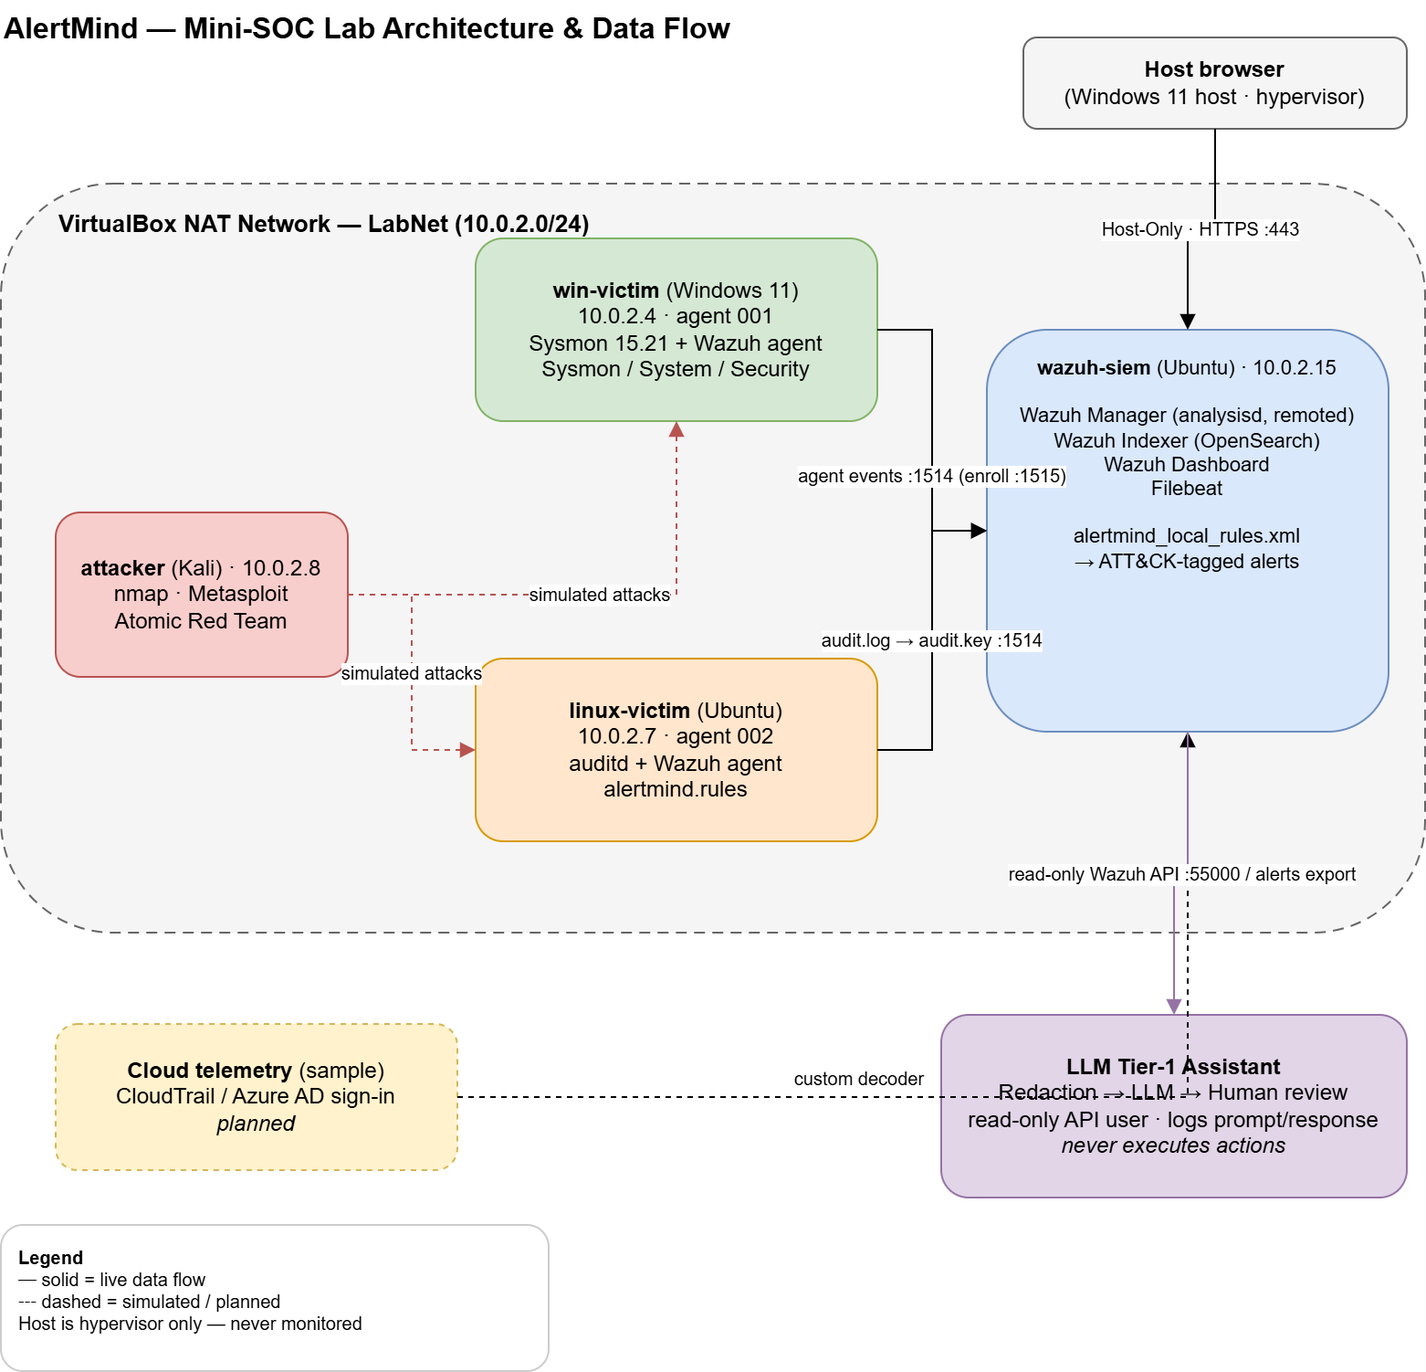
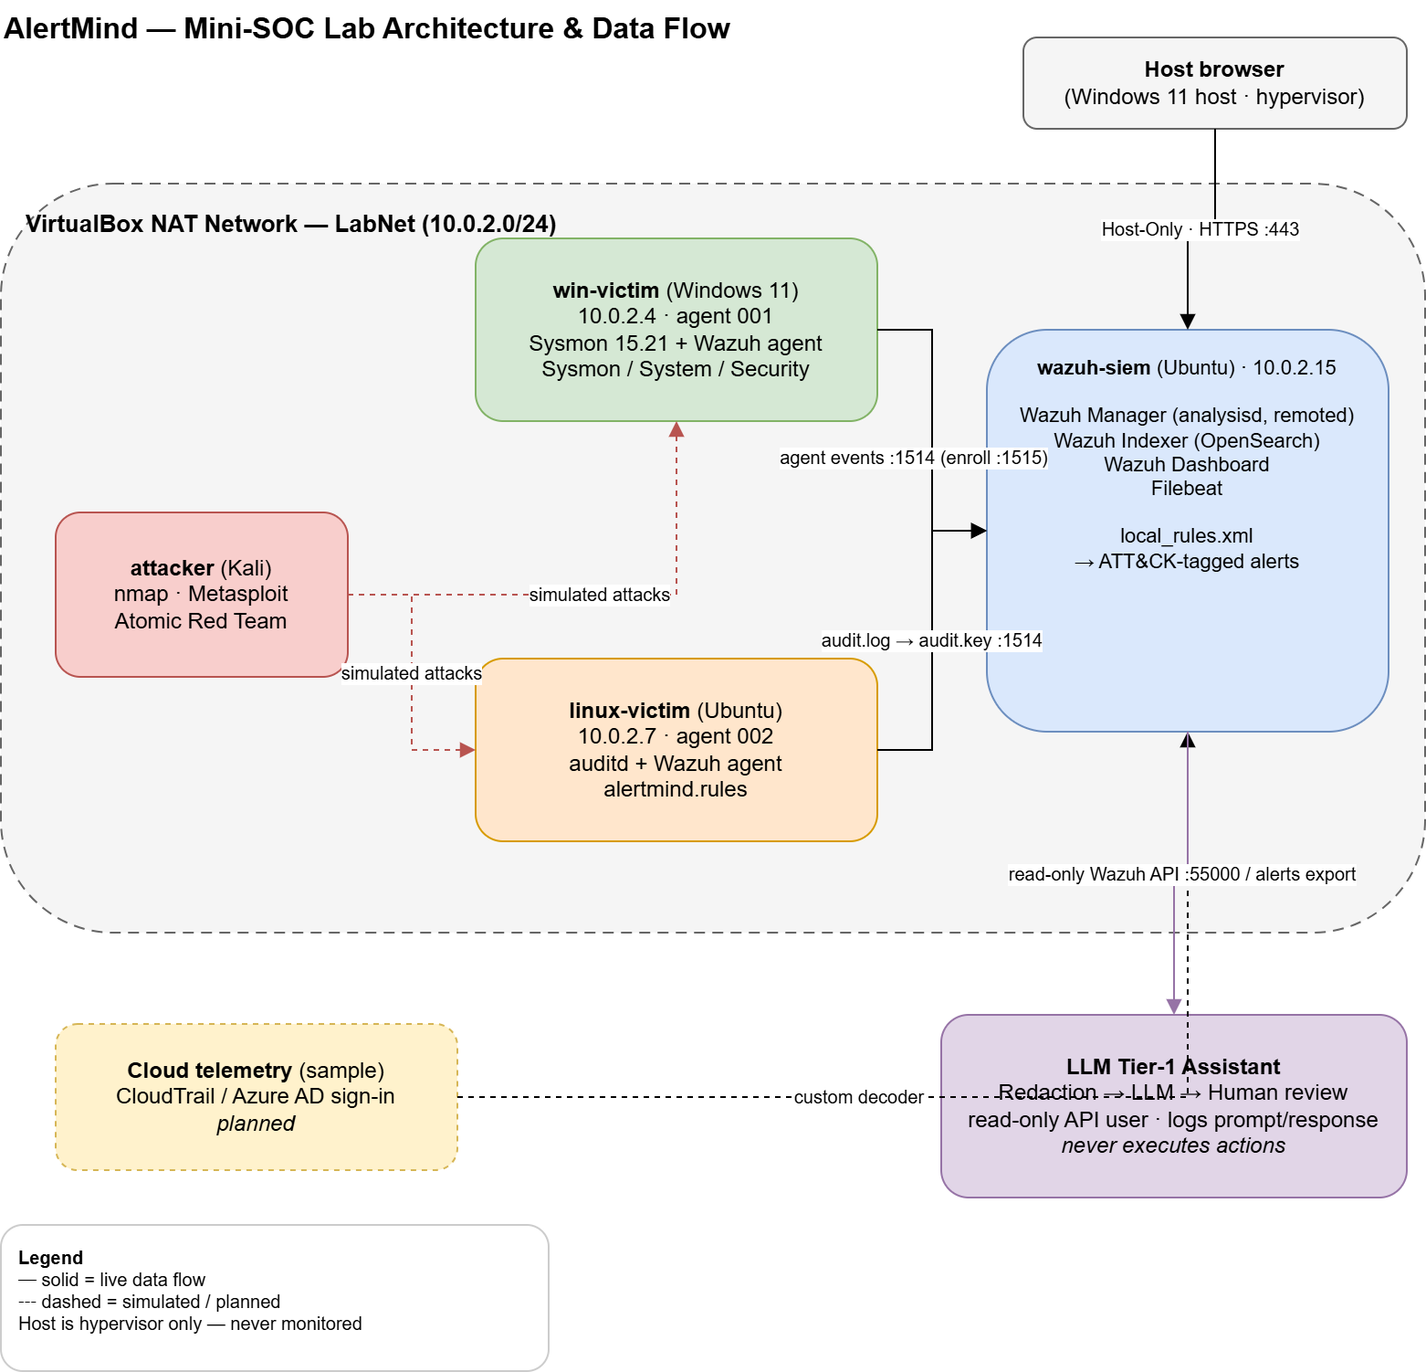
docs: fold in instructor clarifications; rename rules to local_rules.xml
- rename alertmind_local_rules.xml -> local_rules.xml (per instructor)
- resolve scope (7 rules/2 sources), cloud-sample, self-chosen scenarios
- rewrite measurement: MTTD from attack-time-in-logs, 4-timestamp timeline,
  AI aids reporting not metrics, hallucination-cost dimension
- mark redaction proof as a required before/after demonstration
- convert WEEKLOG open questions into resolved block

diff --git a/report.md b/report.md
@@ -41,7 +41,7 @@ A growing SaaS company's three-person SOC processes ~1,200 alerts per day at a m
 
 **Objectives.** (1) Stand up a SIEM with heterogeneous, healthy log sources. (2) Author ATT&CK-mapped detections in Sigma and deploy them. (3) Build operational dashboards and IR playbooks. (4) Build a guardrailed LLM tier-1 assistant. (5) Measure its real impact on triage time and accuracy.
 
-**Scope (solo).** Two endpoint log sources (Windows + Linux), 7+ detection rules, alert-summarisation assistant scope, one tabletop scenario, 10–12 page report. _TODO: confirm against instructor answer on the 7/2-vs-10/3 question._
+**Scope (solo, confirmed with instructor).** The solo requirement is **2 endpoint log sources (Windows + Linux) and 7 detection rules**, expanding to 10 rules / 3 sources (adding cloud) only if time permits. The implemented rule pack already exceeds the minimum. Other solo parameters: alert-summarisation assistant scope, one tabletop scenario, 10–12 page report.
 
 ---
 
@@ -82,7 +82,7 @@ The lab runs on VirtualBox with all VMs on an isolated NAT Network (`LabNet`, 10
 ## 5. Detection engineering
 *✅ Linux Wazuh-native pack implemented; rule 100100 verified · 🚧 Sigma YAML source + remaining rule validation + Windows custom rules.*  *(Rubric: 15% — working rules mapped to ATT&CK.)*
 
-**Authoring model.** Sigma YAML is the intended portable source of truth (`detections/sigma/`); each rule is converted to Wazuh-native form and any hand-translation logged. _Current state: the Wazuh-native rules exist in `siem/wazuh/alertmind_local_rules.xml` (authored first); the Sigma YAML is being backfilled so the portable source exists. TODO: write the Sigma YAML._
+**Authoring model.** Sigma YAML is the intended portable source of truth (`detections/sigma/`); each rule is converted to Wazuh-native form and any hand-translation logged. _Current state: the Wazuh-native rules exist in `siem/wazuh/local_rules.xml` (authored first); the Sigma YAML is being backfilled so the portable source exists. TODO: write the Sigma YAML._
 
 **Linux pack — implemented; 100100 verified end-to-end.** Custom Wazuh rules 100100–100115 (16 rules) chain off base rule 80700, each matching one ATT&CK-encoded auditd key and tagging MITRE. Coverage spans credential access (T1003.008), persistence (T1136/T1098, T1053.003, T1543.002, T1037, T1546.004), defense evasion (T1562.001, T1070/T1070.006), priv-esc (T1548.003, T1548.001), exec-flow hijack (T1574.006), rootkit/LKM (T1547.006/T1014), and config tampering (T1098.004, T1552.004, and a tentatively-mapped package-config monitor). Rule 100100 verified firing end-to-end at level 12 on a real `/etc/shadow` read (EVID-LIN-002); the remaining rules are deployed and will be individually tested during the Atomic/baseline phase. _Full table: README §5._
 
@@ -104,7 +104,7 @@ The lab runs on VirtualBox with all VMs on an isolated NAT Network (`LabNet`, 10
 ## 7. Attack simulation & baseline
 *⏳ Week 2.* *(Feeds Rubric: 15% measured impact.)*
 
-**Scenario.** _TODO: Atomic Red Team chain exercising the rule pack end-to-end, e.g. T1566 → T1059.001 → T1547.001 → T1003.001 → T1021 → T1048. Record per-technique whether it fired, the rule ID, and detection latency._ _TODO: confirm whether the scenario is instructor-standardised._
+**Scenario (self-chosen, confirmed with instructor).** _TODO: Atomic Red Team chain exercising the rule pack end-to-end, e.g. T1566 → T1059.001 → T1547.001 → T1003.001 → T1021 → T1048. Record per-technique whether it fired, the rule ID, and detection latency._ Scenarios are self-selected (instructor suggested PowerShell execution, credential dumping, DNS tunnelling as good candidates).
 
 **Baseline (unassisted).** _TODO: lock the measurement protocol (§9) before this run. Capture MTTD per technique and unassisted triage time over the alert corpus._
 
@@ -117,26 +117,35 @@ The lab runs on VirtualBox with all VMs on an isolated NAT Network (`LabNet`, 10
 
 **Guardrails (document each with evidence).**
 - _No autonomous actions_ — outputs text only; reaches the SIEM via the read-only `assistant-svc` identity (can't act by credential, not just by code).
-- _No secrets to the model_ — redaction layer strips credential/token/secret patterns pre-prompt; IPs retained for triage. _TODO: redaction proof test — plant fake secrets, assert none reach the LLM, save output as evidence._
+- _No secrets to the model_ — redaction layer strips credential/token/secret patterns pre-prompt; IPs retained for triage. **The instructor confirmed a stated policy is not sufficient: a before/after demonstration is required** — show the original alert with a (planted, fake) secret visible, then the post-redaction prompt with it removed, captured as screenshots. _TODO: build the redaction proof test and save before/after evidence._
 - _Human review_ on every output.
 - _Full logging_ — prompt + response + model + version per call (`assistant/logging/`).
 
-_TODO: model/topology choice pending the hosted-vs-self-hosted instructor answer; Ollama + Llama 3 is the fallback._
+_Model/topology: a hosted API is acceptable provided the redaction guardrail is in place (the instructor's emphasis was that secrets/passwords/unneeded IPs must be redacted before anything reaches the model); a self-hosted open model (Ollama + Llama 3) is the alternative. TODO: finalise model choice._
 
 ---
 
 ## 9. Impact measurement
-*🚧 Methodology designed (Week 1) · ⏳ results Week 3.* *(Rubric: 15% — honest before/after, threats-to-validity acknowledged.)*
+*🚧 Methodology designed (Week 1, confirmed with instructor) · ⏳ results Week 3.* *(Rubric: 15% — honest before/after, threats-to-validity acknowledged.)*
 
-**Two metrics, separated honestly.**
-- **MTTD** (attack → alert fires) is a property of the detection rules; the assistant does **not** improve it, and the report says so explicitly.
-- **Time-to-triage** (analyst opens alert → disposition + drafted comms) is what the assistant can plausibly move.
+**Definitions (per instructor clarification).** The detection/response clock starts from **the time the attack actually occurs as recorded in the logs — not the time the log was ingested**. Each incident is tracked with four timestamps:
 
-**Beating n=1.** Rather than timing a single tabletop run, build an alert corpus of ~15–20 alerts spanning the ATT&CK stages from the Atomic runs (`measurement/alert-corpus.json`), split into matched sets A/B, counterbalanced (triage A unassisted then B assisted, or randomised) to control the within-subject learning effect — yielding ~10 timed observations per condition.
+1. **Attack started** (timestamp in the log/event)
+2. **Alert generated** (rule fires in Wazuh)
+3. **Analyst saw the alert** (triage begins)
+4. **Investigation completed** (disposition reached)
 
-**Quality, not just speed.** For each assisted triage, compare the assistant's ATT&CK tag and summary against known Atomic ground truth; record a hallucination / mis-tag rate. A faster-but-wrong triage is worse than a slow correct one.
+From these, MTTD = (2) − (1) and MTTR/time-to-triage = (4) − (3) (with (3) − (2) as analyst pickup latency).
 
-**Reporting.** _TODO: table of condition × {median triage time, tag accuracy, hallucination count} with caveats (small n, single environment, synthetic alerts, within-subject learning)._ _TODO: confirm time-to-triage definition with instructor._
+**What the assistant is expected to change — and what it is not.** The instructor was explicit that the AI assistant does **not** change the MTTD/MTTR *values* themselves; the underlying incident timeline is what it is whether computed manually or with AI. The assistant's value is in making **reporting and summarisation easier and more consistent**, not in speeding up the core investigation. The report therefore treats "does the assistant reduce triage time?" as an honest empirical question with a likely-neutral answer, rather than a result to be manufactured — which the instructor confirmed is the correct posture (an honest negative or neutral finding is expected and acceptable).
+
+**Tracking method (manual is acceptable).** The four timestamps are captured manually in `measurement/timing-log.csv` (the instructor confirmed manual timestamped tracking is sufficient; TheHive/Cortex is an optional add-on, not required). The AI-assisted run is then **cross-checked against the manual timeline for consistency** — i.e. does the assistant's account agree with ground truth, or does it drift?
+
+**Quality and the hallucination cost.** Speed alone is misleading. For each assisted triage, the assistant's ATT&CK tag and summary are compared against known Atomic ground truth and a **mis-tag / hallucination rate** is recorded. The instructor's own example: if the assistant mislabels a privilege-escalation as persistence, the analyst's response time can *increase* because the wrong lead must be unwound — a faster-but-wrong triage is worse than a slower correct one. Per his guidance, **any hallucination that could mislead the report is flagged transparently** rather than smoothed over.
+
+**Beating n=1.** Rather than a single tabletop run, an alert corpus of ~15–20 alerts spanning the ATT&CK stages from the Atomic runs (`measurement/alert-corpus.json`) is split into matched sets A/B, counterbalanced (set A unassisted then B assisted, or randomised) to control the within-subject learning effect — yielding ~10 timed observations per condition.
+
+**Reporting.** _TODO (Week 3): table of condition × {median triage time, tag accuracy, hallucination count}, plus the four-timestamp timeline per scenario, with explicit caveats — small n, single environment/analyst, synthetic alerts, within-subject learning — and a plain statement of whether the assistant helped, was neutral, or hurt._
 
 ---
 
@@ -159,7 +168,7 @@ All AI use is disclosed here per program policy. No real credentials, customer d
 - **Synthetic alerts only** — detection precision is characterised against known Atomic ground truth, not real-world base rates; false-positive behaviour on production traffic is unknown.
 - **Within-subject measurement** — one analyst; learning-effect controls (matched sets, counterbalancing) reduce but don't eliminate the confound. n is small.
 - **Known false positive** — rule 100100 fires on legitimate `cron` reads of `/etc/shadow`; tuning planned and reported rather than hidden.
-- **Cloud source** — static sample, not live ingestion (pending scope confirmation).
+- **Cloud source** — a static sample (e.g. a public CloudTrail/Azure dataset) is used rather than live ingestion; the instructor confirmed this is acceptable, with live ingestion an optional enhancement. Cloud is part of the optional 10-rule / 3-source stretch, not the solo minimum.
 - _TODO: add assistant-specific risks once built (hallucinated tags, over-trust / automation bias, review overhead potentially exceeding time saved)._
 
 ---
@@ -192,12 +201,12 @@ Every ✅ claim in this report maps to a captured artifact. (Consistent with REA
 | EVID-WIN-002 | Windows service creation (7045 → rule 61138, T1543.003) | `evidence/week1/win-system-7045-service.png` |
 | EVID-LIN-001 | Linux user creation detected | `evidence/week1/linux-useradd-t1136.png` |
 | EVID-LIN-002 | auditd `/etc/shadow` rule 100100 fired (T1003.008) | `evidence/week1/linux-shadow-t1003-008.png` |
-| EVID-RULES-001 | `alertmind_local_rules.xml` validates + loads clean | `evidence/week1/wazuh-rules-load.png` |
+| EVID-RULES-001 | `local_rules.xml` validates + loads clean | `evidence/week1/wazuh-rules-load.png` |
 
 _TODO: capture each screenshot into `evidence/week1/`; add Week 2–3 evidence (dashboards, Atomic runs, assistant, redaction proof test) as those land._
 
 ### B. Detection rule pack
-`siem/wazuh/alertmind_local_rules.xml` (deployed Wazuh-native rules) · `detections/auditd/alertmind.rules` (auditd ruleset) · `detections/sigma/` (portable source, backfill in progress).
+`siem/wazuh/local_rules.xml` (deployed Wazuh-native rules) · `detections/auditd/alertmind.rules` (auditd ruleset) · `detections/sigma/` (portable source, backfill in progress).
 
 ### C. Configurations
 Agent `ossec.conf` blocks (audit + Windows channels), Sysmon config edit (EID 10), retention/ISM policies.

diff --git a/architecture/soc-architecture.md b/architecture/soc-architecture.md
@@ -20,7 +20,7 @@ This document describes both what is implemented now and the intended end state.
 | Linux auditd ingestion | Implemented | Tune noisy rules (e.g. 100100) |
 | Linux Wazuh-native rule pack (100100–100115) | Implemented | Verify remaining rules individually |
 | Sigma YAML source | In progress (XML authored first; Sigma backfilling) | Complete 7+ portable rules |
-| Cloud sample source | Planned | Optional / instructor-dependent |
+| Cloud sample source | Planned (optional) | Static sample confirmed acceptable; optional 3rd source if time permits |
 | RBAC users (`socanalyst`, `assistant-svc`) | Planned (only `admin` exists) | Created before Week-3 assistant |
 | Retention ISM policies | Documented, not yet enforced | Enforce or note as production-intent |
 | Dashboard interface restriction | Not enforced (binds 0.0.0.0:443) | Bind Host-Only or add firewall rule |
@@ -105,9 +105,9 @@ endpoint agent ──(1514/TLS)──► wazuh-remoted ──► wazuh-analysisd
 
 **Authoring model (target):** Sigma YAML (`detections/sigma/`) is the portable source of truth; each rule is converted to its Wazuh-native form and deployed to the manager, with any hand-translation logged.
 
-**Current state:** the Wazuh-native Linux rules are implemented in `siem/wazuh/alertmind_local_rules.xml`, deployed under `/var/ossec/etc/rules/` as a separate file (so AlertMind rules stay isolated from any other local rules; files in `etc/rules/` are auto-loaded by the `rule_dir`). The matching Sigma YAML source is being **backfilled** so the portable source and converted output remain auditable — the XML was authored first.
+**Current state:** the Wazuh-native Linux rules are implemented in `siem/wazuh/local_rules.xml`, deployed to `/var/ossec/etc/rules/local_rules.xml` — the standard Wazuh local-rules file, as confirmed with the instructor. (For a solo build there are no other custom rules, so a single `local_rules.xml` is the cleanest place for them.) The matching Sigma YAML source is being **backfilled** so the portable source and converted output remain auditable — the XML was authored first.
 
-**Validation:** rules are checked with `xmllint --noout siem/wazuh/alertmind_local_rules.xml` before deployment, and `sudo tail -50 /var/ossec/logs/ossec.log` after restart confirms the manager loaded the file without XML or rule-parser errors. (Double-hyphen sequences inside XML comments are illegal and will fail this check — comments are kept minimal for that reason.)
+**Validation:** rules are checked with `xmllint --noout siem/wazuh/local_rules.xml` before deployment, and `sudo tail -50 /var/ossec/logs/ossec.log` after restart confirms the manager loaded the file without XML or rule-parser errors. (Double-hyphen sequences inside XML comments are illegal and will fail this check — comments are kept minimal for that reason.)
 
 **Rule organisation:**
 
@@ -185,6 +185,7 @@ See the README §8 for the measurement design that quantifies the assistant's ef
 ## 11. Assumptions & limitations
 
 - Single-node Wazuh (no clustering/HA) — appropriate for a lab, not production scale.
-- Cloud telemetry is a static sample, pending instructor confirmation that live ingestion is out of scope for the solo build.
+- Cloud telemetry, if added, is a static sample file (e.g. a public CloudTrail/Azure dataset) ingested via a custom decoder; the instructor confirmed a sample is acceptable and live ingestion is an optional enhancement. It is part of the optional 10-rule / 3-source scope, not the solo minimum (2 sources / 7 rules, confirmed).
+- The Atomic Red Team scenarios are self-chosen (instructor-confirmed), built around an execution → persistence → credential-access → lateral-movement → exfiltration chain.
 - Synthetic alerts only; no production traffic, so detection precision is characterised against known Atomic ground truth rather than real-world base rates.
 - Measurement is within-subject (single analyst) with the learning-effect controls described in the README; threats to validity are reported in `report.md`.

diff --git a/README.md b/README.md
@@ -74,7 +74,7 @@ alertmind/
 │   ├── soc-architecture.md    # log sources, retention, RBAC, ingestion
 │   └── diagram.drawio / .png
 ├── siem/
-│   └── wazuh/                  # alertmind_local_rules.xml, agent ossec.conf exports
+│   └── wazuh/                  # local_rules.xml, agent ossec.conf exports
 ├── detections/
 │   ├── auditd/                 # alertmind.rules (auditd ruleset)
 │   ├── sigma/                  # source-of-truth Sigma YAML (backfill in progress)
@@ -139,9 +139,9 @@ sudo augenrules --load
 #   add the <localfile> audit block to /var/ossec/etc/ossec.conf, then:
 sudo systemctl restart wazuh-agent
 
-# 3. Manager — custom detection rules (deploy as a SEPARATE file, auto-loaded from etc/rules/)
-xmllint --noout siem/wazuh/alertmind_local_rules.xml          # validate first
-sudo cp siem/wazuh/alertmind_local_rules.xml /var/ossec/etc/rules/alertmind_local_rules.xml
+# 3. Manager — custom detection rules (the standard Wazuh local_rules.xml)
+xmllint --noout siem/wazuh/local_rules.xml                    # validate first
+sudo cp siem/wazuh/local_rules.xml /var/ossec/etc/rules/local_rules.xml
 sudo systemctl restart wazuh-manager
 sudo tail -50 /var/ossec/logs/ossec.log                       # confirm clean load
 ```
@@ -174,7 +174,9 @@ Every "Verified" claim above maps to a captured artifact in `evidence/`. (IDs ar
 | EVID-WIN-002 | Windows service creation (7045 → rule 61138) | `evidence/week1/win-system-7045-service.png` |
 | EVID-LIN-001 | Linux user creation detected | `evidence/week1/linux-useradd-t1136.png` |
 | EVID-LIN-002 | auditd `/etc/shadow` rule 100100 fired (T1003.008) | `evidence/week1/linux-shadow-t1003-008.png` |
-| EVID-RULES-001 | `alertmind_local_rules.xml` validates + loads clean | `evidence/week1/wazuh-rules-load.png` |
+| EVID-RULES-001 | `local_rules.xml` validates + loads clean | `evidence/week1/wazuh-rules-load.png` |
+
+*Capture the listed screenshots into `evidence/week1/` as you re-verify each item.*
 
 ## 8. Measurement approach
 
@@ -196,7 +198,7 @@ Per the program's Responsible AI requirements:
 
 ## 10. Code reuse & attribution
 
-This project reuses the alert-summarization core from the author's prior **[AI-SOC-Assistant](https://github.com/opandey1/AI-SOC-Assistant/)** repository (permitted; disclosed for academic integrity). Reused modules are isolated under `assistant/` and noted in their headers. Everything else — the redaction layer, SOC prompt library, logging, SIEM integration, detection content, dashboards, playbooks, and measurement harness — is new for this capstone.
+This project reuses the alert-summarization core from the author's prior **[AI-SOC-Assistant](https://github.com/)** repository (permitted; disclosed for academic integrity). Reused modules are isolated under `assistant/` and noted in their headers. Everything else — the redaction layer, SOC prompt library, logging, SIEM integration, detection content, dashboards, playbooks, and measurement harness — is new for this capstone.
 
 ## 11. Ethics & scope
 

diff --git a/WEEKLOG.md b/WEEKLOG.md
@@ -32,12 +32,16 @@ A short status note per week (written each Saturday, per the program cadence): w
 - Sigma YAML source for the rule pack not yet written (Wazuh-native form exists; portable form pending).
 - Cloud telemetry sample source not yet ingested.
 
-### Open instructor questions (still awaiting answers)
-- ⭐ Solo minimum: 7 rules / 2 sources, or 10 rules / 3 sources (is cloud in scope)?
-- ⭐ Hosted LLM API acceptable (synthetic alerts), or self-hosted only? Credits provided?
-- ⭐ Is an honestly-reported *negative* triage-time result acceptable?
-- How is time-to-triage defined/measured?
-- Atomic scenario instructor-standardised or self-chosen?
+### Instructor questions — resolved (clarified 26 Jun)
+- **Solo scope:** 7 rules / 2 sources is the requirement; 10 rules / 3 sources (add cloud) only if time permits. → implemented pack already exceeds the minimum.
+- **Sigma workflow:** author Sigma YAML for the rubric and manually implement the equivalent Wazuh rules in `local_rules.xml` — approved as a "very good approach."
+- **Cloud telemetry:** a static sample file (e.g. from a public dataset) is acceptable; live AWS ingestion is an optional enhancement.
+- **Atomic scenarios:** self-chosen (suggested: PowerShell execution, credential dumping, DNS tunnelling).
+- **MTTD/MTTR:** manual timestamp tracking acceptable (attack started → alert generated → analyst saw → investigation completed); MTTD counts from the attack time *in the logs*, not ingestion. AI eases reporting/consistency, not the metric values. TheHive optional.
+- **Negative results:** honestly-reported negative/neutral findings are expected and acceptable; flag any hallucination transparently. RAG/feedback loop optional.
+- **Redaction proof:** stated policy is not enough — a before/after demonstration (original alert with secret → redacted prompt, screenshots) is required.
+- **Reproducibility:** graders will `git clone` and rebuild (<1 hr, no troubleshooting). Docker recommended; a clear rebuild guide will accompany the repo.
+- **Stretch goals:** no bonus points, but improve project quality, oral defense, and portfolio value.
 
 ### Next week (Week 2)
 Dashboards (daily SOC briefing + ATT&CK heatmap) · three NIST 800-61 IR playbooks · stand up the Kali attacker · build + run the Atomic Red Team chain · capture the unassisted baseline (after locking the measurement protocol) · write the Sigma YAML sources · apply the 100100 tune.
